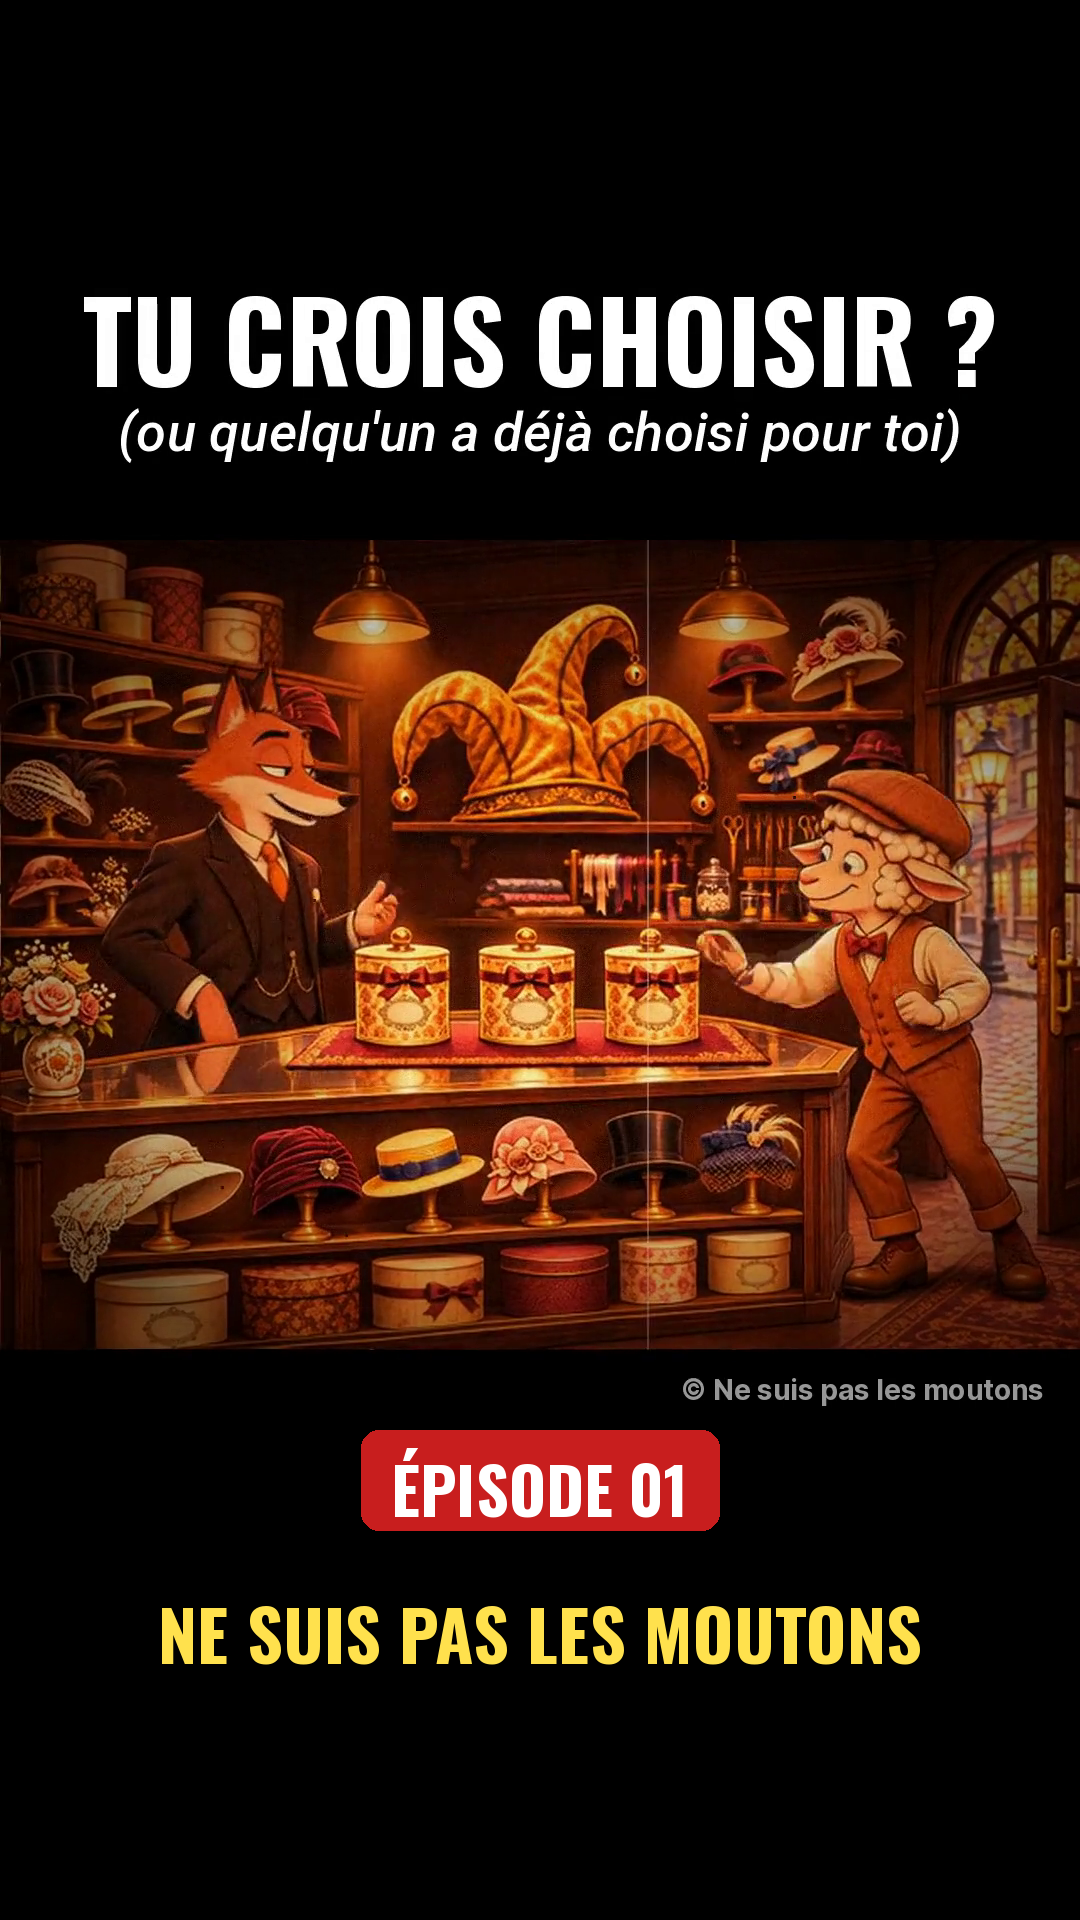
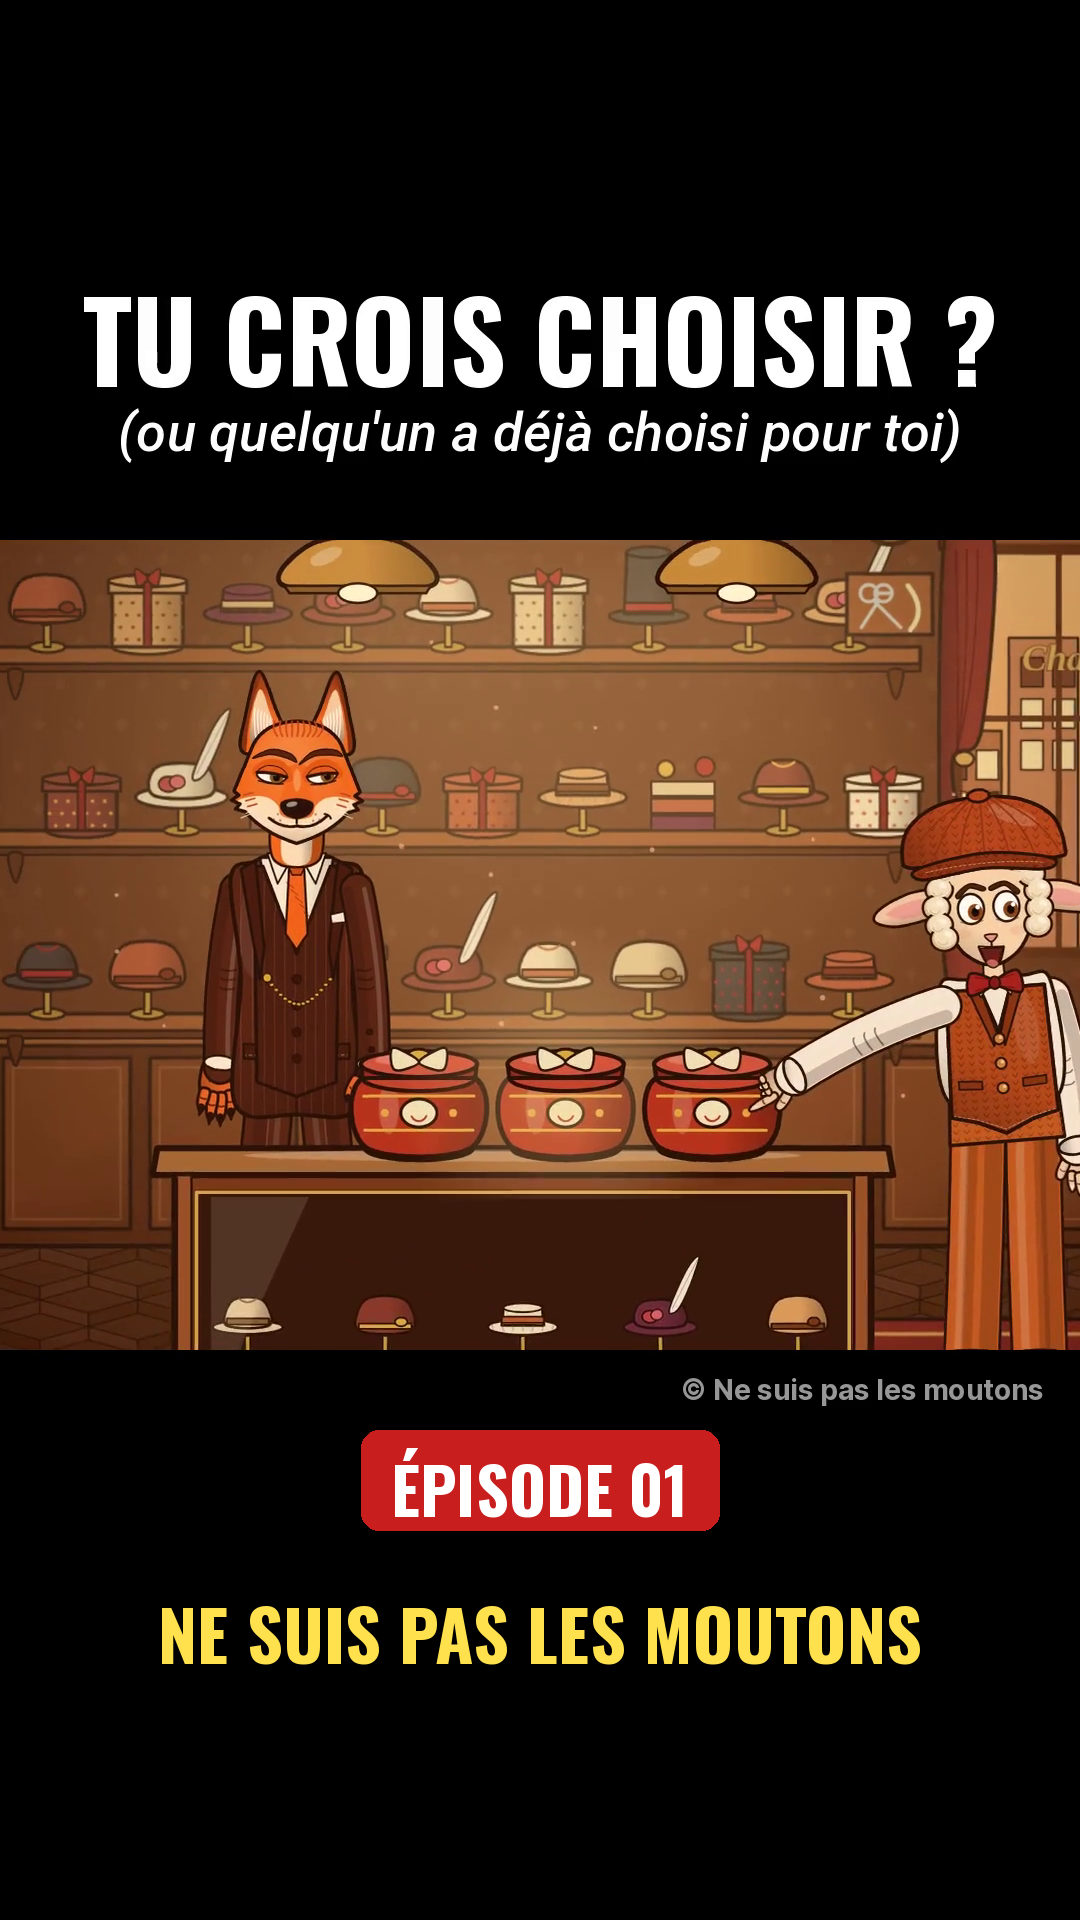
Épisode 1 en dessin animé codé : rendu complet et montage (2 min 25)
Claude-Session: https://claude.ai/code/session_01KFtbtt8Ly1PqNgAqq29H2q

diff --git a/ep01/sortie/EP01_script_voix.md b/ep01/sortie/EP01_script_voix.md
@@ -1,77 +1,77 @@
 # NE SUIS PAS LES MOUTONS — Épisode 01 : TU CROIS CHOISIR ?
 *(ou quelqu'un a déjà choisi pour toi)*
 
-Durée finale : 2 min 05.2 s
+Durée finale : 2 min 24.7 s
 
-## Scène 01 — SCÈNE 01  (00:00 – 00:07)
+## Scène 01 — SCÈNE 01  (00:00 – 00:09)
 
-- `00:00,25` **RENARD** : « Tu crois choisir tout seul ? Intéressant… alors regarde bien. »
-- `00:03,92` **RENARD** : « Trois possibilités, mon cher. Laquelle te tente ? »
+- `00:00,50` **RENARD** : « Tu crois choisir tout seul ? Intéressant… alors regarde bien. »
+- `00:04,29` **RENARD** : « Trois possibilités, mon cher. Laquelle te tente ? »
 
-## Scène 02 — SCÈNE 02  (00:07 – 00:14)
+## Scène 02 — SCÈNE 02  (00:09 – 00:18)
 
-- `00:07,28` **MOUTON** : « Celle du milieu ! Je ne sais pas… elle me paraît mieux. »
-- `00:10,84` **RENARD** : « Voilà. Le choix est rapide. Trop rapide, peut-être. »
+- `00:09,57` **MOUTON** : « Celle du milieu ! Je ne sais pas… elle me paraît mieux. »
+- `00:13,42` **RENARD** : « Voilà. Le choix est rapide. Trop rapide, peut-être. »
 
-## Scène 03 — SCÈNE 03  (00:14 – 00:21)
+## Scène 03 — SCÈNE 03  (00:18 – 00:26)
 
-- `00:15,14` **MOUTON** : « Hein ? Mais… elles sont identiques ! »
-- `00:18,42` **RENARD** : « Et pourtant, tu en préférais déjà une. »
+- `00:18,97` **MOUTON** : « Hein ? Mais… elles sont identiques ! »
+- `00:22,50` **RENARD** : « Et pourtant, tu en préférais déjà une. »
 
-## Scène 04 — SCÈNE 04  (00:21 – 00:29)
+## Scène 04 — SCÈNE 04  (00:26 – 00:37)
 
-- `00:21,29` **RENARD** : « Pour comprendre ce petit miracle, entrons dans le théâtre du choix. »
-- `00:25,83` **RENARD** : « Regarde bien. Les humains sont très inventifs. »
+- `00:26,62` **RENARD** : « Pour comprendre ce petit miracle, entrons dans le théâtre du choix. »
+- `00:31,41` **RENARD** : « Regarde bien. Les humains sont très inventifs. »
 
-## Scène 05 — SCÈNE 05  (00:29 – 00:37)
+## Scène 05 — SCÈNE 05  (00:37 – 00:45)
 
-- `00:31,28` **NARRATEUR** : « Première astuce : on ne change pas le produit. On change sa mise en scène. »
+- `00:37,71` **NARRATEUR** : « Première astuce : on ne change pas le produit. On change sa mise en scène. »
 
-## Scène 06 — SCÈNE 06  (00:37 – 00:47)
+## Scène 06 — SCÈNE 06  (00:45 – 00:55)
 
-- `00:38,05` **NARRATEUR** : « Deuxième astuce : on te donne plusieurs options… mais on en habille une mieux que les autres. »
-- `00:43,81` **CLIENT** : « Celle-ci a l’air spéciale ! »
+- `00:45,53` **NARRATEUR** : « Deuxième astuce : on te donne plusieurs options… mais on en habille une mieux que les autres. »
+- `00:51,54` **CLIENT** : « Celle-ci a l’air spéciale ! »
 
-## Scène 07 — SCÈNE 07  (00:47 – 00:56)
+## Scène 07 — SCÈNE 07  (00:55 – 01:06)
 
-- `00:47,25` **NARRATEUR** : « Troisième astuce : crée une option trop chère et une autre trop pauvre. Comme ça, le milieu paraît raisonnable. »
+- `00:56,03` **NARRATEUR** : « Troisième astuce : crée une option trop chère et une autre trop pauvre. Comme ça, le milieu paraît raisonnable. »
 
-## Scène 08 — SCÈNE 08  (00:56 – 01:06)
+## Scène 08 — SCÈNE 08  (01:06 – 01:17)
 
-- `00:57,07` **NARRATEUR** : « Ensuite, il suffit de faire croire que tout le monde en parle. »
-- `01:04,35` **VENDEUR** : « Le produit préféré de la ville ! »
+- `01:06,90` **NARRATEUR** : « Ensuite, il suffit de faire croire que tout le monde en parle. »
+- `01:14,43` **VENDEUR** : « Le produit préféré de la ville ! »
 
-## Scène 09 — SCÈNE 09  (01:06 – 01:11)
+## Scène 09 — SCÈNE 09  (01:17 – 01:23)
 
-- `01:06,70` **NARRATEUR** : « Une lumière ici, un piédestal là… et soudain, ton regard croit avoir décidé. »
+- `01:17,83` **NARRATEUR** : « Une lumière ici, un piédestal là… et soudain, ton regard croit avoir décidé. »
 
-## Scène 10 — SCÈNE 10  (01:11 – 01:18)
+## Scène 10 — SCÈNE 10  (01:23 – 01:31)
 
-- `01:11,74` **NARRATEUR** : « Même ton trajet peut être guidé. Tu avances… et tu appelles ça ton instinct. »
+- `01:23,92` **NARRATEUR** : « Même ton trajet peut être guidé. Tu avances… et tu appelles ça ton instinct. »
 
-## Scène 11 — SCÈNE 11  (01:18 – 01:25)
+## Scène 11 — SCÈNE 11  (01:31 – 01:40)
 
-- `01:18,55` **NARRATEUR** : « Enlève l’emballage, la lumière et le décor… et le grand choix devient soudain bien petit. »
-- `01:23,79` **CLIENT** : « Attendez… c’est la même chose ? »
+- `01:31,78` **NARRATEUR** : « Enlève l’emballage, la lumière et le décor… et le grand choix devient soudain bien petit. »
+- `01:37,27` **CLIENT** : « Attendez… c’est la même chose ? »
 
-## Scène 12 — SCÈNE 12  (01:25 – 01:32)
+## Scène 12 — SCÈNE 12  (01:40 – 01:48)
 
-- `01:25,98` **NARRATEUR** : « Le plus gênant, ce n’est pas d’avoir été guidé. C’est de le découvrir après. »
+- `01:40,51` **NARRATEUR** : « Le plus gênant, ce n’est pas d’avoir été guidé. C’est de le découvrir après. »
 
-## Scène 13 — SCÈNE 13  (01:32 – 01:44)
+## Scène 13 — SCÈNE 13  (01:48 – 01:59)
 
-- `01:34,15` **MOUTON** : « Donc… on peut me guider sans que je m’en rende compte ? »
-- `01:39,00` **RENARD** : « Oh, bien sûr. Avec un peu de décor, presque tout le monde suit. »
+- `01:48,53` **MOUTON** : « Donc… on peut me guider sans que je m’en rende compte ? »
+- `01:53,63` **RENARD** : « Oh, bien sûr. Avec un peu de décor, presque tout le monde suit. »
 
-## Scène 14 — SCÈNE 14  (01:44 – 01:54)
+## Scène 14 — SCÈNE 14  (01:59 – 02:11)
 
-- `01:44,33` **RENARD** : « Et maintenant que tu le sais… voyons si ça suffit. »
-- `01:49,25` **RENARD** : « Celle-ci est mise en avant pour une excellente raison… »
+- `02:00,21` **RENARD** : « Et maintenant que tu le sais… voyons si ça suffit. »
+- `02:05,38` **RENARD** : « Celle-ci est mise en avant pour une excellente raison… »
 
-## Scène 15 — SCÈNE 15  (01:54 – 02:05)
+## Scène 15 — SCÈNE 15  (02:11 – 02:24)
 
-- `01:54,79` **RENARD** : « Avant de dire “j’ai choisi”, demande-toi d’abord : qui a dessiné le décor de ton choix ? »
-- `02:00,42` **MOUTON** : « Finalement… j’ai pris celle-là ! »
+- `02:12,17` **RENARD** : « Avant de dire “j’ai choisi”, demande-toi d’abord : qui a dessiné le décor de ton choix ? »
+- `02:18,05` **MOUTON** : « Finalement… j’ai pris celle-là ! »
 
 **ÉCRAN FINAL** : NE SUIS PAS LES MOUTONS — « Qui a dessiné le décor de ton choix ? »
 
